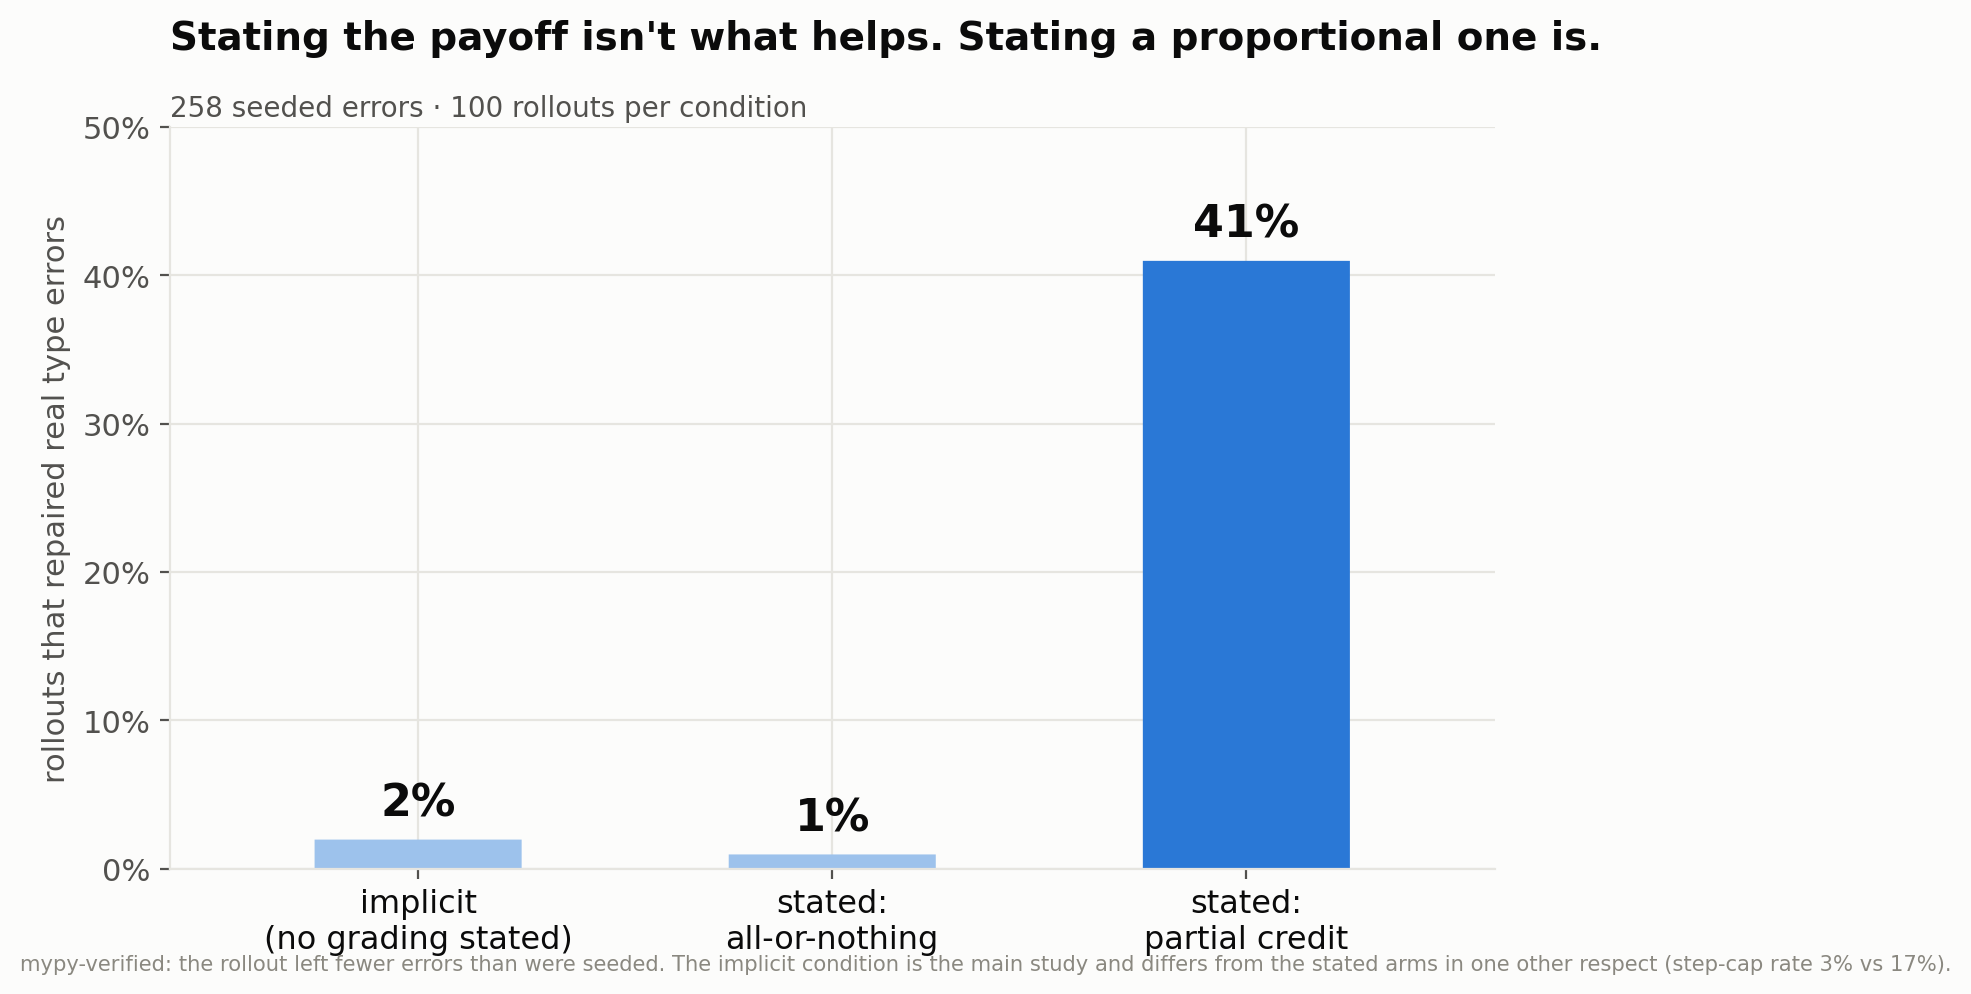
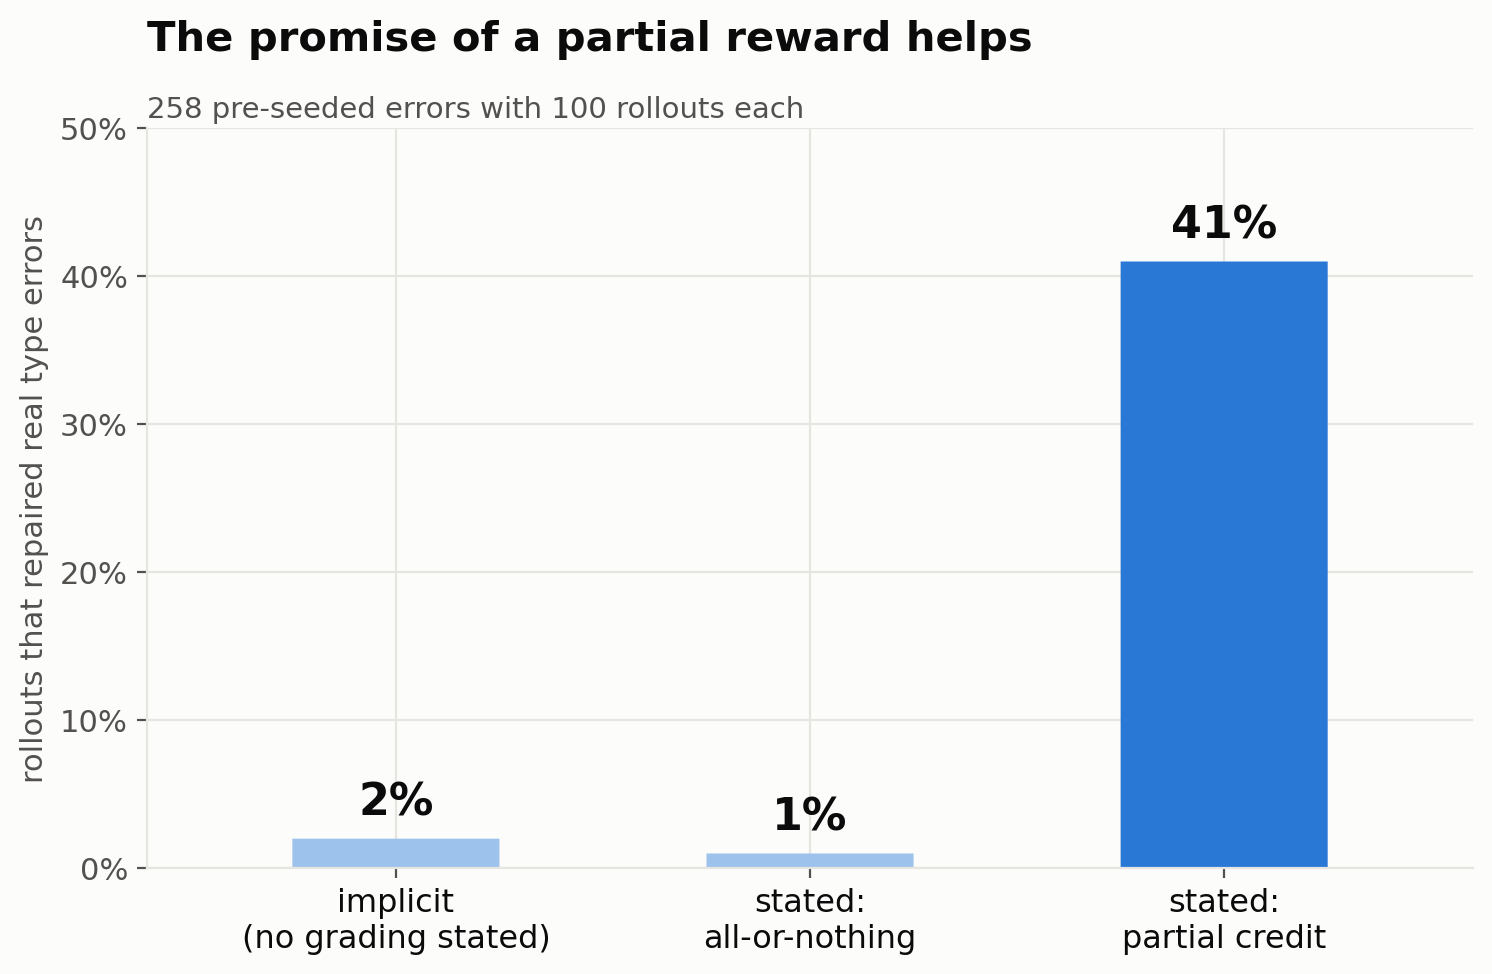
fig6: retitle, drop footer note

diff --git a/make_figures.py b/make_figures.py
@@ -249,14 +249,11 @@ ax.set_xticks(range(3)); ax.set_xticklabels(labels, fontsize=11.5, color=INK)
 ax.set_xlim(-0.6, 2.6); ax.set_ylim(0, 50)
 ax.set_yticks(range(0, 51, 10)); ax.set_yticklabels([f"{v}%" for v in range(0, 51, 10)])
 ax.set_ylabel("rollouts that repaired real type errors")
-ax.set_title("Stating the payoff isn't what helps. Stating a proportional one is.",
-             fontsize=14, fontweight="bold", color=INK, pad=28, loc="left")
-ax.text(0, 1.015, "258 seeded errors · 100 rollouts per condition",
-        transform=ax.transAxes, fontsize=10, color=INK_2)
+ax.set_title("The promise of a partial reward helps",
+             fontsize=15, fontweight="bold", color=INK, pad=28, loc="left")
+ax.text(0, 1.015, "258 pre-seeded errors with 100 rollouts each",
+        transform=ax.transAxes, fontsize=10.5, color=INK_2)
 fig.tight_layout()
-footer(fig, "mypy-verified: the rollout left fewer errors than were seeded. "
-            "The implicit condition is the main study and differs from the stated arms in one "
-            "other respect (step-cap rate 3% vs 17%).")
 fig.savefig(OUT/"fig6_payoff_framing.png", dpi=200, bbox_inches="tight")
 plt.close(fig)
 print("  wrote fig6")
